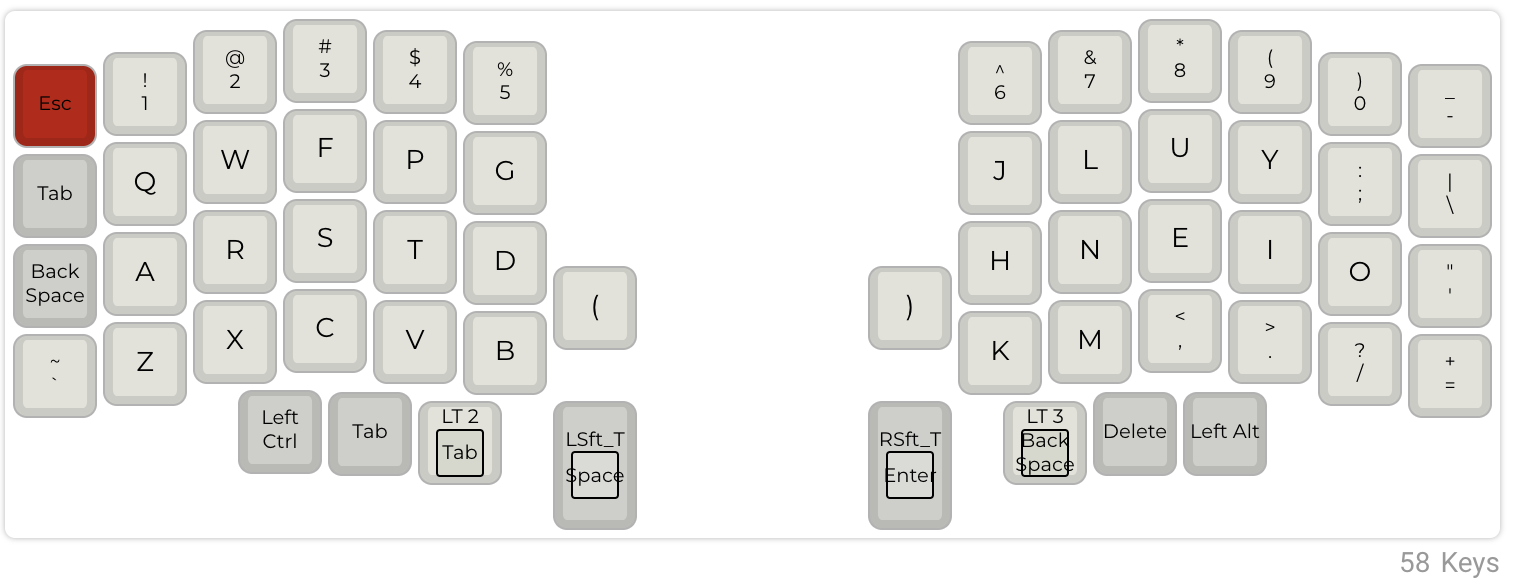
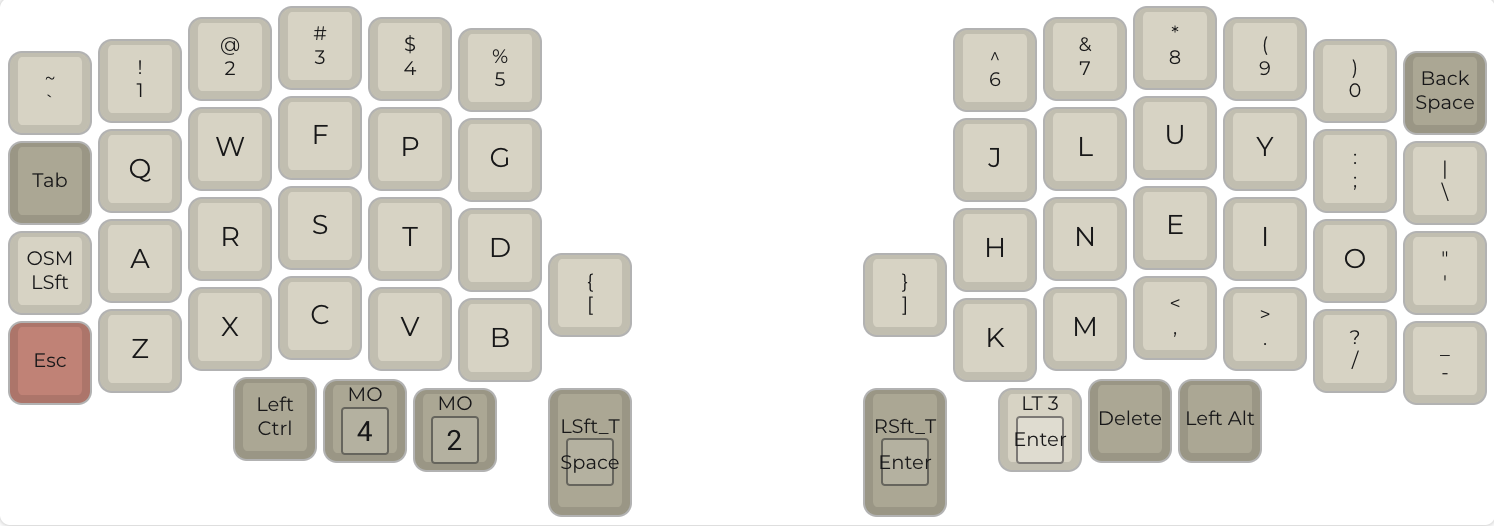
readme

diff --git a/readme.md b/readme.md
@@ -12,18 +12,18 @@ inspired by miryoku but that made use of the extra keys.
 In some ways this is inferior to simply usuing miryoku everywhere, an approach which 
 provides the highest level of consistency between keyboards. Nevertheless, I suspect there
 are other people like me out there that like miryoku but wouldn't mind being able to use 
-a number row. Hopefully this layout can fill that need.
+the extra keys when they are available. Hopefully this layout can fill that need.
 
 ## Design Goals
 
 - Mostly compatible with the miryoku layout while taking
-advantage of the extra keys on the lily58
+advantage of the extra keys on the lily58 and six-row corne
 
 - Support both QWERTY and COLEMAK
 
 - Switch between windows and mac
 
-- Support unicode characters
+- Support unicode characters on windows and mac
 
 - Make better use of the display
 
@@ -33,22 +33,8 @@ The layouts are basically self-documenting, but here they are:
 
 ### Colemak
 
-```
 
-,-----------------------------------------.                    ,-----------------------------------------.
-| ESC  |   1  |   2  |   3  |   4  |   5  |                    |   6  |   7  |   8  |   9  |   0  |  `~  |
-|------+------+------+------+------+------|                    |------+------+------+------+------+------|
-| Tab  |   Q  |   W  |   F  |   P  |   G  |                    |   J  |   L  |   U  |   Y  |   ;  |  \   |
-|------+------+------+------+------+------|                    |------+------+------+------+------+------|
-|osmspc|   A  |   R  |   S  |   T  |   G  |-------.    ,-------|   H  |   N  |   E  |   I  |   O  |  '   |
-|------+------+------+------+------+------|   [   |    |   ]   |------+------+------+------+------+------|
-| `~   |   Z  |   X  |   C  |   V  |   B  |-------|    |-------|   K  |   M  |   ,  |   .  |   /  |  -_  |
-`-----------------------------------------/       /     \      \-----------------------------------------'
-                  | LCTL |  esc | NAV  | /Space  /       \ bspc \  |RAISE | DEL  | LALT |
-                  |      |      |      |/  lsft /         \      \ | enter|      |      |
-                  `----------------------------'           '------''--------------------'
- 
-```
+![Nav Layer](layer-colemak.png)
 
 This is my primary layer, and one of the two default layer choices.
 Although I've included shift on the home row, I mainly use it on the 
@@ -114,14 +100,18 @@ so it is persistent.
 
 The main difference is that the gui and control keys are swapped. This
 is shown in the OLED. This makes it pretty painless to switch between
-PC and Mac, at least for the tools that I use.
-
-Soon, this feature will also ensure that the keyboard sends unicode 
-correctly for the selected OS.
+PC and Mac, at least for the tools that I use. But this also allows
+the keyboard to send unicode correctly based on the selected OS.
 
 ## Misc Features
 
-Hold down space key for shift.
+The large thumb keys are space and backspace, respectively. I had originally used
+space and enter, like many other keymaps, but backspace is used much more frequently
+so I moved it to the more accessible location.
+
+The large thumb keys operate as shift when held. This has made a huge difference for
+me. I can'd believe space isn't shift everywhere, it just works so well.
+
 
 # todo
 
